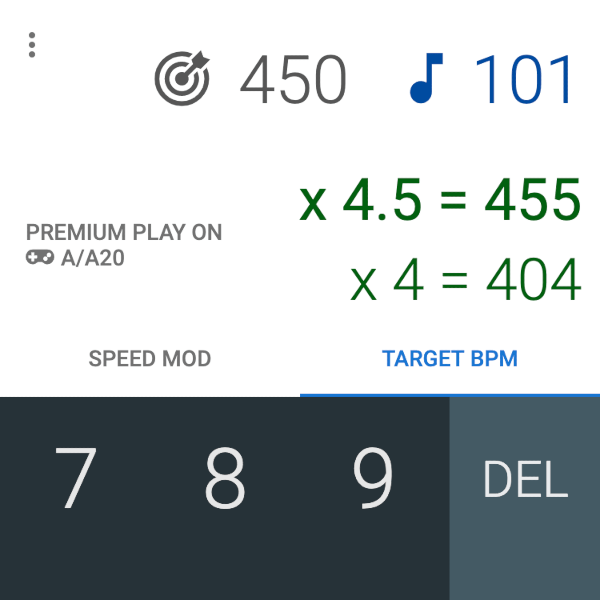
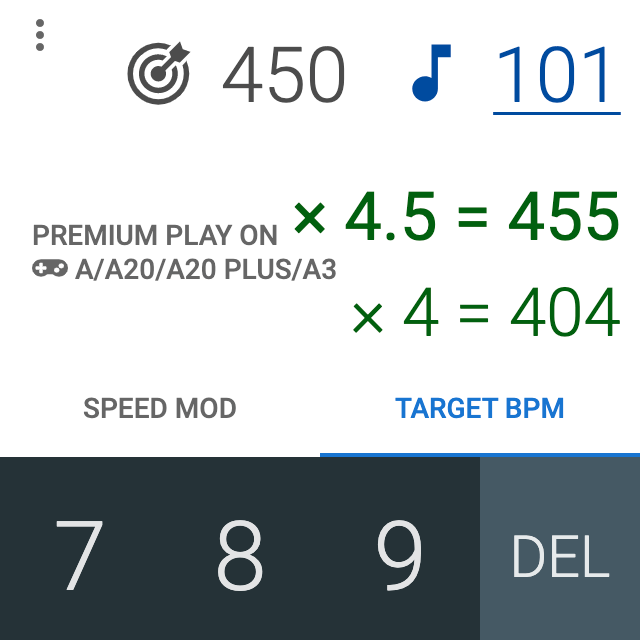
Update OpenGraph preview image Resolves #47

diff --git a/src/index.html b/src/index.html
@@ -31,8 +31,8 @@
     <meta property="og:description" content="Calculator for DDR speed modifiers">
     <meta property="og:image" content="https://ddrcalc.andrew67.com/img/preview.png">
     <meta property="og:image:type" content="image/png">
-    <meta property="og:image:width" content="600">
-    <meta property="og:image:height" content="600">
+    <meta property="og:image:width" content="640">
+    <meta property="og:image:height" content="640">
     <meta property="og:image:alt" content="DDR Calc Preview">
 
     <!-- iOS-specific tags -->
